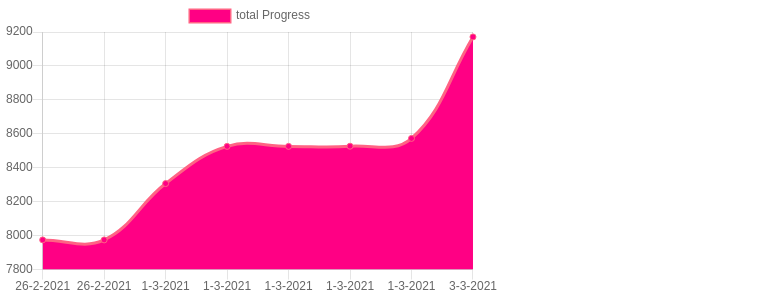
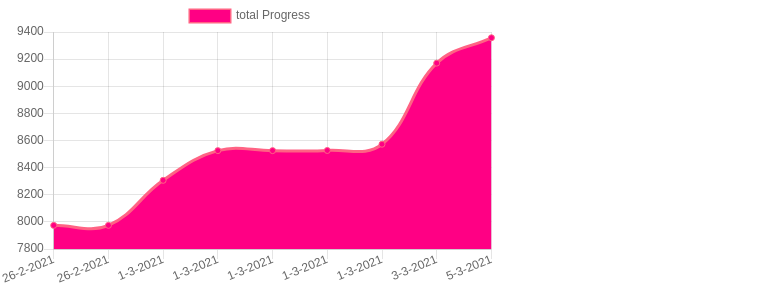
java: spring controller and model definitions

diff --git a/total.html b/total.html
@@ -9,7 +9,7 @@
         <script src="https://cdn.jsdelivr.net/npm/chart.js@2.8.0"></script>
         <script>
           var ctx = document.getElementById("total").getContext("2d");
-          const goLabelsDates = ["2021-02-27T01:37:43.112Z","2021-02-27T01:38:01.628Z","2021-03-01T13:41:18.753Z","2021-03-01T14:53:41.991Z","2021-03-01T15:08:00.851Z","2021-03-01T15:09:10.635Z","2021-03-01T15:22:55.385Z","2021-03-03T15:31:41.151Z",];
+          const goLabelsDates = ["2021-02-27T01:37:43.112Z","2021-02-27T01:38:01.628Z","2021-03-01T13:41:18.753Z","2021-03-01T14:53:41.991Z","2021-03-01T15:08:00.851Z","2021-03-01T15:09:10.635Z","2021-03-01T15:22:55.385Z","2021-03-03T15:31:41.151Z","2021-03-05T14:02:13.446Z",];
           var chart = new Chart(ctx, {
             type: 'line',
             data: {
@@ -18,7 +18,7 @@
                 label: 'total Progress',
                 backgroundColor: 'rgb(255, 0, 132)',
                 borderColor: 'rgb(255, 99, 132)',
-                data: [7975,7975,8307,8526,8526,8527,8573,9171,]
+                data: [7975,7975,8307,8526,8526,8527,8573,9171,9358,]
               }]
             },
           });

diff --git a/java.html b/java.html
@@ -4,12 +4,12 @@
       <head></head>
       <body>
         <div style="width: 500px;">
-          <canvas id="java" width="500" height="500"></canvas>
+          <canvas id="java" width="500" height="300"></canvas>
         </div>
         <script src="https://cdn.jsdelivr.net/npm/chart.js@2.8.0"></script>
         <script>
           var ctx = document.getElementById("java").getContext("2d");
-          const goLabelsDates = ["2021-02-27T01:37:43.111Z","2021-02-27T01:38:01.627Z",];
+          const goLabelsDates = ["2021-02-27T01:37:43.111Z","2021-02-27T01:38:01.627Z","2021-03-05T14:02:13.445Z",];
           var chart = new Chart(ctx, {
             type: 'line',
             data: {
@@ -18,7 +18,7 @@
                 label: 'java Progress',
                 backgroundColor: 'rgb(255, 0, 132)',
                 borderColor: 'rgb(255, 99, 132)',
-                data: [731,731,]
+                data: [731,731,918,]
               }]
             },
           });

diff --git a/Readme.md b/Readme.md
@@ -6,15 +6,15 @@
 |python|1501|75|75|![python](https://raw.githubusercontent.com/kapit4n/l-10000-dev/master/python.png)|
 |ruby|1056|53|53|![ruby](https://raw.githubusercontent.com/kapit4n/l-10000-dev/master/ruby.png)|
 |scala|975|49|49|![scala](https://raw.githubusercontent.com/kapit4n/l-10000-dev/master/scala.png)|
+|java|918|46|46|![java](https://raw.githubusercontent.com/kapit4n/l-10000-dev/master/java.png)|
 |ts|829|41|41|![ts](https://raw.githubusercontent.com/kapit4n/l-10000-dev/master/ts.png)|
-|java|731|37|37|![java](https://raw.githubusercontent.com/kapit4n/l-10000-dev/master/java.png)|
 |words|47|2|2|![words](https://raw.githubusercontent.com/kapit4n/l-10000-dev/master/words.png)|
 |sql|9|0|0|![sql](https://raw.githubusercontent.com/kapit4n/l-10000-dev/master/sql.png)|
 |dotnet|0|0|0|![dotnet](https://raw.githubusercontent.com/kapit4n/l-10000-dev/master/dotnet.png)|
-|TOTAL|9171|917.100%|
+|TOTAL|9358|935.800%|
 10/02(0)
 
-10/03(9171)
+10/03(9358)
 
 
 # run it
@@ -37,4 +37,4 @@ node ./count.js
 * Angular, React, Vue
 * Spring, Play
 * Scala, Java
-, 2021-03-03T15:31:41.151Z
+, 2021-03-05T14:02:13.446Z
